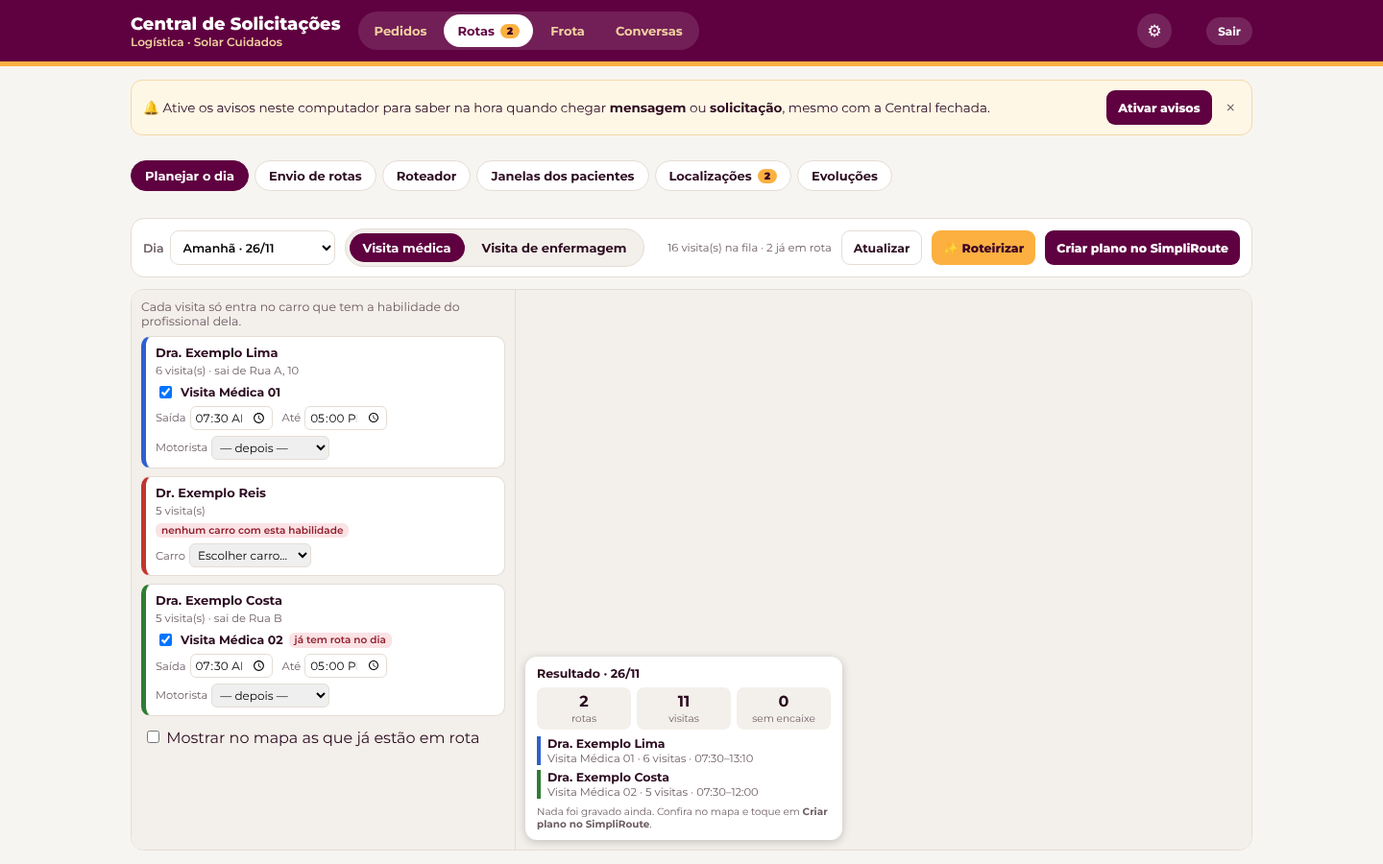
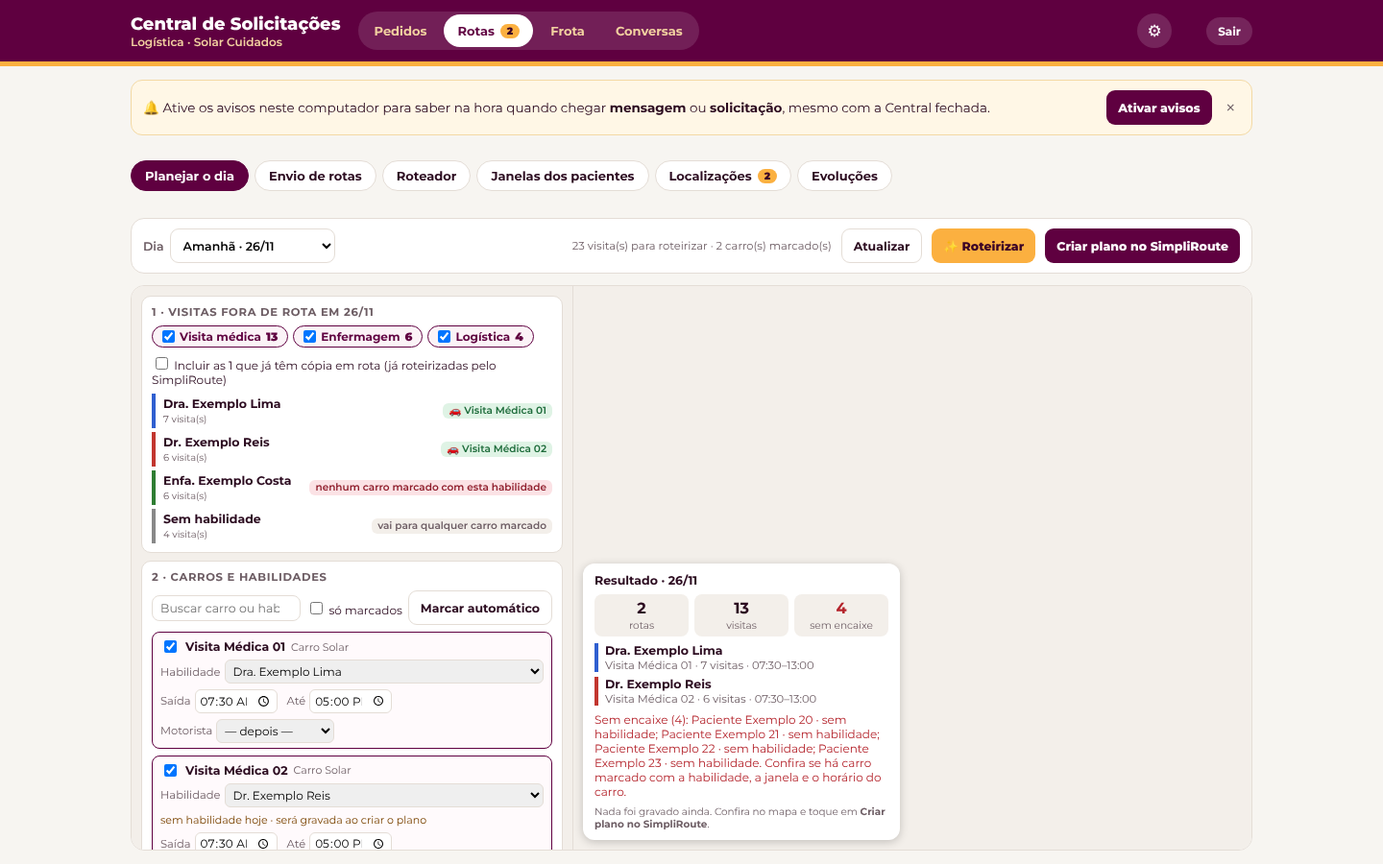
roteador

diff --git a/central.html b/central.html
@@ -209,6 +209,7 @@ tr.crit td{background:#fdf1f2}
 .ajt input[type=number]{font:inherit;font-size:13.5px;padding:5px 6px;border:1px solid var(--line);border-radius:8px}
 .larga main,.larga .topin{max-width:none}
 .plp{background:#fff;border:1px solid var(--line);border-left:5px solid var(--wine);border-radius:10px;padding:8px 10px;display:flex;flex-direction:column;gap:5px}.plh b{display:block;font-size:13px}.plh small{font-size:11.5px;color:var(--muted)}.plr{display:flex;gap:6px;align-items:center;font-size:12.5px;flex-wrap:wrap}.plr2{display:flex;gap:6px 10px;flex-wrap:wrap;align-items:center;font-size:11.5px;color:var(--muted)}.plr2 label{display:flex;gap:4px;align-items:center}.plr2 input[type=time]{font:inherit;font-size:12px;padding:2px 4px;border:1px solid var(--line);border-radius:6px;width:86px}.plm select{font:inherit;font-size:12px;padding:3px 4px;border:1px solid var(--line);border-radius:6px;max-width:210px}
+.rtwrap.pltw{grid-template-columns:460px minmax(0,1fr)}.plbox{background:#fff;border:1px solid var(--line);border-radius:10px;padding:9px 10px;display:flex;flex-direction:column;gap:7px}.plbox h4{margin:0;font-size:11.5px;letter-spacing:.06em;text-transform:uppercase;color:var(--muted)}.plchips{display:flex;flex-wrap:wrap;gap:5px}.plchip{display:inline-flex;gap:5px;align-items:center;border:1px solid var(--line);border-radius:999px;padding:3px 10px;font-size:12px;font-weight:700;cursor:pointer}.plchip.on{border-color:var(--wine);background:#fbf3f7;color:var(--wine)}.plchip input{margin:0}.plsk{display:flex;flex-direction:column;gap:4px}.plskr{display:flex;justify-content:space-between;gap:8px;align-items:center;border-left:4px solid #888;padding:3px 0 3px 8px;font-size:12px}.plskr b{display:block;font-size:12.5px}.plskr small{color:var(--muted)}.plbar{display:flex;gap:6px;align-items:center;flex-wrap:wrap}.plbar input[type=search]{flex:1;min-width:140px;font:inherit;font-size:12.5px;padding:5px 8px;border:1px solid var(--line);border-radius:8px}.plc{border:1px solid var(--line);border-radius:8px;padding:5px 8px;display:flex;flex-direction:column;gap:4px}.plc.on{border-color:var(--wine);background:#fffafc}.plc .plr small{color:var(--muted);font-size:11px}.pldif{flex:1 1 100%;color:var(--pend);font-size:11px}.rtk.ok{background:var(--ok-bg);color:var(--ok)}
 .plres{position:absolute;left:10px;bottom:10px;z-index:500;background:#fff;border-radius:12px;box-shadow:0 2px 10px rgba(0,0,0,.2);padding:10px 12px;width:330px;max-height:70%;overflow:auto;display:flex;flex-direction:column;gap:7px;font-size:12.5px}.plk{display:grid;grid-template-columns:repeat(3,1fr);gap:6px}.plk div{background:var(--off);border-radius:8px;padding:5px;text-align:center}.plk b{display:block;font-size:16px}.plk small{font-size:10.5px;color:var(--muted)}.plrl{display:flex;flex-direction:column;gap:5px}.plrl b{display:block;font-size:12.5px}.plrl small{color:var(--muted);font-size:11.5px}
 .lcw{display:grid;grid-template-columns:330px minmax(0,1fr);gap:14px;align-items:start}.lcl{display:flex;flex-direction:column;gap:8px;max-height:calc(100vh - 230px);overflow:auto}.lci{all:unset;box-sizing:border-box;cursor:pointer;background:#fff;border:1px solid var(--line);border-left:5px solid var(--sun);border-radius:10px;padding:9px 11px;display:flex;flex-direction:column;gap:2px}.lci b{font-size:13.5px}.lci small{font-size:12px;color:var(--muted)}.lci.on{border-color:var(--wine);box-shadow:inset 0 0 0 1px var(--wine)}.lci.aplicada{border-left-color:var(--ok)}.lci.recusada{border-left-color:var(--bad)}.lci:focus-visible{outline:2px solid var(--sun)}
 .lcd{background:#fff;border:1px solid var(--line);border-radius:12px;padding:14px;display:flex;flex-direction:column;gap:10px}.lcm{position:relative;height:330px;border-radius:10px;overflow:hidden;border:1px solid var(--line)}.lcmapa{position:absolute;inset:0;background:var(--off)}.lcleg{display:flex;gap:16px;flex-wrap:wrap;font-size:12.5px;color:var(--muted)}.lcleg i{display:inline-block;width:10px;height:10px;border-radius:50%;margin-right:5px;vertical-align:middle}.lcg{display:grid;grid-template-columns:1fr 1fr;gap:10px 18px;font-size:13px}.lcg span{display:block;font-size:11.5px;color:var(--muted)}
@@ -758,50 +759,59 @@ document.addEventListener('click',async e=>{const b=e.target.closest&&e.target.c
    if(AJ.d.enviada){try{E.data=AJ.data;await carregarEnv(true,true);const x=(E.sr||[]).find(z=>String(z.route_id)===String(R.id));if(x)await enviarRota(chave(x),true);toast('Rota do profissional atualizada no Minha Rota.')}catch(x){toast('A rota mudou no SimpliRoute, mas não consegui reenviar ao profissional: '+x.message)}}
    AJ.sols=[];AJ.busy='';carregar(true);rtCarregar();return ajCarregar()}catch(x){if(x.message!=='sessao')AJ.err=x.message}AJ.busy='';render()}});
 
-/* ===== Planejar o dia: visitas da fila do SimpliRoute → carros com a habilidade do profissional → roteirizar → criar o plano ===== */
-const PL={data:hojeSP(1),eq:'medica',d:null,busy:false,err:'',ver:false,car:{},res:null,map:null,el:null,lay:null,at:0,fit:true};
-async function plApi(acao,extra){const r=await fetch(SB+'/functions/v1/planejar',{method:'POST',headers:{apikey:KEY,'Content-Type':'application/json'},body:JSON.stringify({token:S.token,acao,data:PL.data,equipe:PL.eq,...(extra||{})})}).then(r=>r.json());
+/* ===== Planejar o dia: todas as visitas fora de rota → carros com habilidade → roteirizar (cada visita vai para o carro com a mesma habilidade) → criar o plano ===== */
+const PL={data:hojeSP(1),d:null,busy:false,err:'',ja:false,tipos:new Set(['med','enf','log','ter','sem']),car:{},res:null,map:null,el:null,lay:null,at:0,fit:true,q:'',soMarc:false};
+const PL_TIPO=t=>t==='med_visit'?'med':/^(enf_visit|avaliacao|admissao)/.test(t)?'enf':/(_log|pront_col)$/.test(t)?'log':/^(fono|fisio)/.test(t)?'ter':'sem';
+const nz=t=>String(t||'').normalize('NFD').replace(/[\u0300-\u036f]/g,'').toLowerCase();
+const PL_TNOME={med:'Visita médica',enf:'Enfermagem',log:'Logística',ter:'Fono / fisio',sem:'Sem tipo'};
+async function plApi(acao,extra){const r=await fetch(SB+'/functions/v1/planejar',{method:'POST',headers:{apikey:KEY,'Content-Type':'application/json'},body:JSON.stringify({token:S.token,acao,data:PL.data,...(extra||{})})}).then(r=>r.json());
  if(!r.ok&&r.erro==='sessao'){sair('Sua sessão expirou. Entre de novo.');throw new Error('sessao')}return r}
+const plVis=()=>(PL.d?PL.d.visitas:[]).filter(v=>(PL.ja||!v.ja)&&PL.tipos.has(PL_TIPO(v.tipo)));
+const plHab=id=>PL.d&&PL.d.habilidades.find(h=>h.id===+id);
+const plHabNome=id=>{const h=plHab(id);return h?h.nome:'Sem habilidade'};
+function plAuto(){const D=PL.d;if(!D)return;const quer=new Set();plVis().forEach(v=>v.skills.forEach(s=>quer.add(s)));
+ D.carros.forEach(c=>{const s=c.skills.find(x=>quer.has(x));const a=PL.car[c.id]||{inicio:c.turno[0]||'07:30',fim:c.turno[1]||'17:00',motorista:c.motorista||''};
+  PL.car[c.id]={...a,on:!!s&&!c.rotas_no_dia,skill:s?String(s):(c.skills[0]?String(c.skills[0]):'')}})}
 async function plCarregar(){PL.busy='carregar';PL.err='';PL.res=null;render();
- try{const r=await plApi('carregar');if(!r.ok)throw new Error(r.erro||'Não consegui ler o SimpliRoute.');PL.d=r;PL.at=Date.now();PL.fit=true;
-  const ant=PL.car;PL.car={};r.carros.forEach(c=>{const tem=c.skills.some(s=>r.profs.some(p=>p.id===s)&&r.visitas.some(v=>!v.ja&&v.skills.includes(s)));const a=ant[c.id];PL.car[c.id]=a||{on:tem&&!c.rotas_no_dia,inicio:c.turno[0]||'07:30',fim:c.turno[1]||'17:00',motorista:c.motorista||''}})}
+ try{const r=await plApi('carregar');if(!r.ok)throw new Error(r.erro||'Não consegui ler o SimpliRoute.');PL.d=r;PL.at=Date.now();PL.fit=true;PL.car={};plAuto()}
  catch(e){if(e.message!=='sessao')PL.err=e.message}PL.busy=false;render()}
-const plNome=id=>{const p=PL.d&&PL.d.profs.find(x=>x.id===id);return p?p.nome:'Sem profissional'};
-const plCarroDe=sid=>PL.d?PL.d.carros.find(c=>c.skills.includes(sid)):null;
-const plVisitas=()=>(PL.d?PL.d.visitas:[]).filter(v=>PL.ver||!v.ja);
 const PL_CORES=['#2f5fd0','#c2362f','#2e7d32','#d4700a','#7b3fa0','#13838a','#b8326f','#5b6b00','#8a5a00','#1f4e79','#a23e00','#4a2a8a','#00796b','#6d4c41'];
-const plCor=sid=>{const i=PL.d?PL.d.profs.findIndex(p=>p.id===sid):0;return PL_CORES[(i<0?0:i)%PL_CORES.length]};
+function plCor(sid){if(!sid)return '#888';const L=[...new Set((PL.d?PL.d.visitas:[]).flatMap(v=>v.skills))];const i=L.indexOf(+sid);return PL_CORES[(i<0?0:i)%PL_CORES.length]}
 function renderPla(){if(!PL.d&&!PL.busy&&!PL.err&&!PL._q){PL._q=1;setTimeout(()=>{PL._q=0;plCarregar()},0)}
- const d=PL.d,vs=plVisitas(),novas=d?d.visitas.filter(v=>!v.ja):[];
- let h=`<div class="bar rtbar"><label class="ck">Dia <select id="pldia">${[1,2,3,4,5,6,7].map(k=>{const s=hojeSP(k);return `<option value="${s}"${PL.data===s?' selected':''}>${k===1?'Amanhã':dExt(s)} · ${dm(s)}</option>`}).join('')}</select></label>
-  <div class="rteq" role="tablist" aria-label="Equipe">${[['medica','Visita médica'],['enfermagem','Visita de enfermagem']].map(([k,t])=>`<button type="button" role="tab" data-pleq="${k}" aria-selected="${PL.eq===k}" class="${PL.eq===k?'on':''}">${t}</button>`).join('')}</div>
-  <span class="sp"></span><span class="upd">${PL.busy==='carregar'?'Lendo o SimpliRoute…':d?`${novas.length} visita(s) na fila · ${d.ja_roteirizadas} já em rota`:''}</span>
+ const d=PL.d,vs=plVis(),marc=d?d.carros.filter(c=>(PL.car[c.id]||{}).on):[];
+ let h=`<div class="bar rtbar"><label class="ck">Dia <select id="pldia">${[0,1,2,3,4,5,6,7].map(k=>{const s=hojeSP(k);return `<option value="${s}"${PL.data===s?' selected':''}>${k===0?'Hoje':k===1?'Amanhã':dExt(s)} · ${dm(s)}</option>`}).join('')}</select></label>
+  <span class="sp"></span><span class="upd">${PL.busy==='carregar'?'Lendo o SimpliRoute…':d?`${vs.length} visita(s) para roteirizar · ${marc.length} carro(s) marcado(s)`:''}</span>
   <button class="btn ghost sm" type="button" data-pl="atualizar"${PL.busy?' disabled':''}>Atualizar</button>
-  <button class="btn sun sm" type="button" data-pl="roteirizar"${PL.busy||!d||!novas.length?' disabled':''}>${PL.busy==='roteirizar'?'Roteirizando…':'✨ Roteirizar'}</button>
+  <button class="btn sun sm" type="button" data-pl="roteirizar"${PL.busy||!d||!vs.length||!marc.length?' disabled':''}>${PL.busy==='roteirizar'?'Roteirizando…':'✨ Roteirizar'}</button>
   <button class="btn wine sm" type="button" data-pl="criar"${PL.busy||!PL.res||!PL.res.rotas.length?' disabled':''}>${PL.busy==='criar'?'Criando…':'Criar plano no SimpliRoute'}</button></div>`;
  if(PL.err)h+=`<p class="err" role="alert">${esc(PL.err)}</p>`;
- h+=`<div class="rtwrap"><section class="rtrs pls" aria-label="Profissionais, carros e visitas">`;
- if(!d)h+=`<div class="empty">${PL.busy?'Lendo as visitas do dia no SimpliRoute…':'—'}</div>`;
+ h+=`<div class="rtwrap pltw"><section class="rtrs pls" aria-label="Visitas e carros">`;
+ if(!d)h+=`<div class="empty">${PL.busy?'Lendo as visitas fora de rota no SimpliRoute…':'—'}</div>`;
  else{
-  const porProf=new Map();novas.forEach(v=>{const k=v.skills[0]||0;porProf.set(k,(porProf.get(k)||0)+1)});
-  h+=`<p class="rtres" style="margin:0">Cada visita só entra no carro que tem a habilidade do profissional dela.</p>`;
-  if(!novas.length)h+=`<div class="empty">Nenhuma visita de ${PL.eq==='medica'?'visita médica':'enfermagem'} na fila do SimpliRoute para ${dm(PL.data)}${d.ja_roteirizadas?` (${d.ja_roteirizadas} já estão em rota)`:''}.</div>`;
-  d.profs.slice().sort((a,b)=>(porProf.get(b.id)||0)-(porProf.get(a.id)||0)).forEach(p=>{const n=porProf.get(p.id)||0;const c=plCarroDe(p.id),cf=c?PL.car[c.id]:null;
-   h+=`<div class="plp" style="border-left-color:${plCor(p.id)}"><div class="plh"><b>${esc(p.nome)}</b><small>${n} visita(s)${p.base&&p.base.endereco?' · sai de '+esc(String(p.base.endereco).split(' - ')[0]):''}</small></div>`;
-   if(c){h+=`<label class="plr"><input type="checkbox" data-plon="${c.id}"${cf.on?' checked':''}> <b>${esc(c.nome)}</b>${c.rotas_no_dia?' <span class="rtk bad">já tem rota no dia</span>':''}</label>
-     <div class="plr2"><label>Saída <input type="time" data-plini="${c.id}" value="${esc(cf.inicio)}"></label><label>Até <input type="time" data-plfim="${c.id}" value="${esc(cf.fim)}"></label>
-     <label class="plm">Motorista <select data-plmot="${c.id}"><option value="">— depois —</option>${d.motoristas.map(m=>`<option value="${m.id}"${String(cf.motorista)===String(m.id)?' selected':''}>${esc(m.nome)}</option>`).join('')}</select></label></div>`}
-   else{const livres=d.carros.filter(x=>!x.skills.some(s=>porProf.get(s)));
-    h+=`<div class="plr2"><span class="rtk bad">nenhum carro com esta habilidade</span><label class="plm">Carro <select data-plhab="${p.id}"><option value="">Escolher carro…</option>${livres.map(x=>`<option value="${x.id}">${esc(x.nome)}${x.skill_nomes.length?' (hoje: '+esc(x.skill_nomes.join(', '))+')':''}</option>`).join('')}</select></label></div>`}
-   h+='</div>'});
-  if(porProf.get(0))h+=`<div class="plp" style="border-left-color:#999"><div class="plh"><b>Sem profissional</b><small>${porProf.get(0)} visita(s) sem habilidade: não entram em nenhum carro</small></div></div>`;
-  h+=`<label class="ck" style="margin:4px 2px"><input type="checkbox" id="plver"${PL.ver?' checked':''}> Mostrar no mapa as que já estão em rota</label>`}
+  /* 1. visitas fora de rota */
+  const fila=d.visitas.filter(v=>PL.ja||!v.ja),nJa=d.visitas.filter(v=>v.ja).length;const cnt={};fila.forEach(v=>{const t=PL_TIPO(v.tipo);cnt[t]=(cnt[t]||0)+1});
+  h+=`<div class="plbox"><h4>1 · Visitas fora de rota em ${dm(PL.data)}</h4><div class="plchips">${Object.keys(PL_TNOME).filter(t=>cnt[t]).map(t=>`<label class="plchip${PL.tipos.has(t)?' on':''}"><input type="checkbox" data-pltipo="${t}"${PL.tipos.has(t)?' checked':''}>${PL_TNOME[t]} <b>${cnt[t]}</b></label>`).join('')||'<span class="meta">Nenhuma visita fora de rota.</span>'}</div>
+   ${nJa?`<label class="ck" style="font-size:12px"><input type="checkbox" id="plja"${PL.ja?' checked':''}> Incluir as ${nJa} que já têm cópia em rota (já roteirizadas pelo SimpliRoute)</label>`:''}`;
+  const porSk=new Map();vs.forEach(v=>{const k=v.skills.length?v.skills.join(','):'0';porSk.set(k,(porSk.get(k)||0)+1)});
+  const carroCom=sid=>d.carros.filter(c=>(PL.car[c.id]||{}).on&&String((PL.car[c.id]||{}).skill)===String(sid));
+  h+=`<div class="plsk">${[...porSk.entries()].sort((a,b)=>b[1]-a[1]).map(([k,n])=>{const sid=k==='0'?'':k.split(',')[0];const cs=sid?carroCom(sid):[];
+   return `<div class="plskr" style="border-left-color:${plCor(sid)}"><span><b>${sid?esc(k.split(',').map(plHabNome).join(' + ')):'Sem habilidade'}</b><small>${n} visita(s)</small></span>${sid?(cs.length?`<span class="rtk ok">🚗 ${esc(cs.map(c=>c.nome).join(', '))}</span>`:`<span class="rtk bad">nenhum carro marcado com esta habilidade</span>`):'<span class="rtk">vai para qualquer carro marcado</span>'}</div>`}).join('')}</div></div>`;
+  /* 2. carros */
+  const q=nz(PL.q);const lista=d.carros.filter(c=>(!PL.soMarc||(PL.car[c.id]||{}).on)&&(!q||nz(c.nome+' '+c.grupo+' '+c.skills.map(plHabNome).join(' ')).includes(q)));
+  h+=`<div class="plbox"><h4>2 · Carros e habilidades</h4><div class="plbar"><input id="plq" type="search" placeholder="Buscar carro ou habilidade" value="${esc(PL.q)}"><label class="ck" style="font-size:12px"><input type="checkbox" id="plso"${PL.soMarc?' checked':''}> só marcados</label><button class="btn ghost sm" type="button" data-pl="auto" title="Marca os carros que já têm a habilidade das visitas">Marcar automático</button></div>
+   <datalist id="plhabs">${d.habilidades.map(x=>`<option value="${esc(x.nome)}">`).join('')}</datalist>
+   ${lista.map(c=>{const cf=PL.car[c.id]||{};const sk=cf.skill?plHab(cf.skill):null;const mud=String(cf.skill||'')!==String(c.skills[0]||'');
+    return `<div class="plc${cf.on?' on':''}"><label class="plr"><input type="checkbox" data-plon="${c.id}"${cf.on?' checked':''}> <b>${esc(c.nome)}</b><small>${esc(c.grupo)}</small>${c.rotas_no_dia?' <span class="rtk bad">já tem rota no dia</span>':''}</label>
+     ${cf.on?`<div class="plr2"><label class="plm" style="flex:1 1 100%">Habilidade <select data-plsk="${c.id}" style="max-width:none;flex:1"><option value="">— sem habilidade —</option>${d.habilidades.map(x=>`<option value="${x.id}"${String(cf.skill)===String(x.id)?' selected':''}>${esc(x.nome)}</option>`).join('')}</select></label>
+      ${mud?`<small class="pldif">${c.skills.length?'hoje no SimpliRoute: '+esc(c.skills.map(plHabNome).join(', ')):'sem habilidade hoje'} · será gravada ao criar o plano${sk&&sk.base?' · sai da casa do profissional':''}</small>`:''}
+      <label>Saída <input type="time" data-plini="${c.id}" value="${esc(cf.inicio)}"></label><label>Até <input type="time" data-plfim="${c.id}" value="${esc(cf.fim)}"></label>
+      <label class="plm">Motorista <select data-plmot="${c.id}"><option value="">— depois —</option>${d.motoristas.map(m=>`<option value="${m.id}"${String(cf.motorista)===String(m.id)?' selected':''}>${esc(m.nome)}</option>`).join('')}</select></label></div>`:''}</div>`}).join('')}</div>`}
  h+='</section>';
  h+=`<section class="rtm" aria-label="Mapa do plano"><div id="plmapa-slot" class="rtmapa"></div>`;
  if(PL.res){const R=PL.res,nv=R.rotas.reduce((a,r)=>a+r.visitas.length,0),fora=R.sem_encaixe||[];
   h+=`<div class="plres"><b>Resultado · ${dm(PL.data)}</b><div class="plk"><div><b>${R.rotas.length}</b><small>rotas</small></div><div><b>${nv}</b><small>visitas</small></div><div><b class="${fora.length?'ajbad':''}">${fora.length}</b><small>sem encaixe</small></div></div>
-   <div class="plrl">${R.rotas.map(r=>{const c=d.carros.find(x=>x.id===r.carro)||{nome:r.carro,skills:[]};const sid=c.skills[0];return `<div style="border-left:4px solid ${plCor(sid)};padding-left:7px"><b>${esc(plNome(sid))}</b><small>${esc(c.nome)} · ${r.visitas.length} visitas · ${esc(r.saida)}–${esc(r.volta)}</small></div>`}).join('')}</div>
-   ${fora.length?`<p class="ajbad" style="margin:0;font-size:12px">Sem encaixe: ${fora.map(id=>{const v=d.visitas.find(x=>x.id===id);return v?esc(v.titulo)+(v.de||v.ate?' ('+esc(v.de||'…')+'–'+esc(v.ate||'…')+')':''):id}).join(', ')}. Confira a janela, o horário do carro ou se o profissional tem carro.</p>`:''}
+   <div class="plrl">${R.rotas.map(r=>{const c=d.carros.find(x=>x.id===r.carro)||{nome:r.carro};const sid=(r.skills||[])[0];return `<div style="border-left:4px solid ${plCor(sid)};padding-left:7px"><b>${esc(sid?plHabNome(sid):'Sem habilidade')}</b><small>${esc(c.nome)} · ${r.visitas.length} visitas · ${esc(r.saida)}–${esc(r.volta)}</small></div>`}).join('')}</div>
+   ${fora.length?`<p class="ajbad" style="margin:0;font-size:12px">Sem encaixe (${fora.length}): ${fora.slice(0,12).map(id=>{const v=d.visitas.find(x=>x.id===id);return v?esc(v.titulo)+' · '+esc(v.skills.length?plHabNome(v.skills[0]):'sem habilidade'):id}).join('; ')}${fora.length>12?'…':''}. Confira se há carro marcado com a habilidade, a janela e o horário do carro.</p>`:''}
    <small style="color:var(--muted)">Nada foi gravado ainda. Confira no mapa e toque em <b>Criar plano no SimpliRoute</b>.</small></div>`}
  h+='</section></div>';return h}
 async function plDesenha(){const slot=document.getElementById('plmapa-slot');if(slot){if(!PL.el){PL.el=document.createElement('div');PL.el.className='rtmapa'}slot.replaceWith(PL.el)}else if(!PL.el||!document.body.contains(PL.el))return;
@@ -809,37 +819,39 @@ async function plDesenha(){const slot=document.getElementById('plmapa-slot');if(
  if(!PL.map){PL.map=L.map(PL.el,{scrollWheelZoom:true});L.tileLayer('https://{s}.tile.openstreetmap.org/{z}/{x}/{y}.png',{maxZoom:18,attribution:'© OpenStreetMap'}).addTo(PL.map);PL.map.setView([-22.93,-43.3],10)}
  PL.map.invalidateSize(false);if(PL.lay)PL.lay.remove();PL.lay=L.layerGroup().addTo(PL.map);const d=PL.d;if(!d)return;const pts=[];
  const pin=(cor,txt,sz,op)=>L.divIcon({className:'',html:`<div class="rtpin" style="background:${cor};width:${sz}px;height:${sz}px;opacity:${op}">${txt}</div>`,iconSize:[sz,sz],iconAnchor:[sz/2,sz/2]});
- try{if(PL.res){PL.res.rotas.forEach(r=>{const c=d.carros.find(x=>x.id===r.carro);if(!c)return;const cor=plCor(c.skills[0]);const ll=[[c.inicio.lat,c.inicio.lng]];
-   L.marker([c.inicio.lat,c.inicio.lng],{icon:pin(cor,'⌂',22,1)}).bindTooltip(`<b>${esc(plNome(c.skills[0]))}</b><br>${esc(c.nome)} · saída ${esc(r.saida)}`).addTo(PL.lay);
+ try{if(PL.res){PL.res.rotas.forEach(r=>{const c=d.carros.find(x=>x.id===r.carro)||{nome:r.carro};const sid=(r.skills||[])[0];const cor=plCor(sid);const ini=r.ini||c.inicio,fim=r.fim||c.fim;const ll=[[ini.lat,ini.lng]];
+   L.marker([ini.lat,ini.lng],{icon:pin(cor,'⌂',22,1)}).bindTooltip(`<b>${esc(sid?plHabNome(sid):'Sem habilidade')}</b><br>${esc(c.nome)} · saída ${esc(r.saida)}`).addTo(PL.lay);
    r.visitas.forEach((x,i)=>{const v=d.visitas.find(y=>y.id===x.id);if(!v||!isFinite(v.lat))return;ll.push([v.lat,v.lng]);pts.push([v.lat,v.lng]);
-    L.marker([v.lat,v.lng],{icon:pin(cor,i+1,22,1)}).bindTooltip(`<b>${esc(plNome(c.skills[0]))}</b><br>${i+1}ª ${esc(v.titulo)}${v.bairro?' · '+esc(v.bairro):''}<br>chega ${esc(x.chegada)}${v.de||v.ate?' · janela '+esc(v.de||'…')+'–'+esc(v.ate||'…'):''}`).addTo(PL.lay)});
-   ll.push([c.fim.lat,c.fim.lng]);L.polyline(ll,{noClip:true,color:cor,weight:3,opacity:.75}).addTo(PL.lay)});
+    L.marker([v.lat,v.lng],{icon:pin(cor,i+1,22,1)}).bindTooltip(`<b>${esc(c.nome)}</b><br>${i+1}ª ${esc(v.titulo)}${v.bairro?' · '+esc(v.bairro):''}<br>chega ${esc(x.chegada)}${v.de||v.ate?' · janela '+esc(v.de||'…')+'–'+esc(v.ate||'…'):''}`).addTo(PL.lay)});
+   ll.push([fim.lat,fim.lng]);L.polyline(ll,{noClip:true,color:cor,weight:3,opacity:.75}).addTo(PL.lay)});
    (PL.res.sem_encaixe||[]).forEach(id=>{const v=d.visitas.find(y=>y.id===id);if(v&&isFinite(v.lat))L.marker([v.lat,v.lng],{icon:pin('#111','!',22,1)}).bindTooltip(`Sem encaixe: ${esc(v.titulo)}`).addTo(PL.lay)})}
-  else plVisitas().forEach(v=>{if(!isFinite(v.lat))return;const sid=v.skills[0];pts.push([v.lat,v.lng]);
-   L.marker([v.lat,v.lng],{icon:pin(sid?plCor(sid):'#999','',14,v.ja?.35:1)}).bindTooltip(`<b>${esc(plNome(sid))}</b><br>${esc(v.titulo)}${v.bairro?' · '+esc(v.bairro):''}${v.de||v.ate?'<br>janela '+esc(v.de||'…')+'–'+esc(v.ate||'…'):''}${v.ja?'<br>já está em rota':''}`).addTo(PL.lay)})}
+  else plVis().forEach(v=>{if(!isFinite(v.lat)||!v.lat)return;const sid=v.skills[0];pts.push([v.lat,v.lng]);
+   L.marker([v.lat,v.lng],{icon:pin(plCor(sid),'',14,v.ja?.4:1)}).bindTooltip(`<b>${esc(sid?plHabNome(sid):'Sem habilidade')}</b> · ${esc(PL_TNOME[PL_TIPO(v.tipo)])}<br>${esc(v.titulo)}${v.bairro?' · '+esc(v.bairro):''}${v.de||v.ate?'<br>janela '+esc(v.de||'…')+'–'+esc(v.ate||'…'):''}`).addTo(PL.lay)})}
  catch(e){console.warn('mapa do plano',e)}
  if(PL.fit&&pts.length){PL.fit=false;const f=()=>{PL.map.invalidateSize(false);PL.map.fitBounds(pts,{padding:[40,40],maxZoom:14})};f();setTimeout(f,60)}}
-document.addEventListener('click',async e=>{const b=e.target.closest&&e.target.closest('[data-pl],[data-pleq]');if(!b)return;const d=b.dataset;
- if(d.pleq){if(PL.eq===d.pleq)return;PL.eq=d.pleq;PL.d=null;PL.res=null;render();plCarregar();return}
- if(d.pl==='atualizar'){plCarregar();return}
- if(d.pl==='roteirizar'){const D=PL.d;const carros=D.carros.filter(c=>PL.car[c.id]&&PL.car[c.id].on).map(c=>({id:c.id,inicio:PL.car[c.id].inicio,fim:PL.car[c.id].fim}));
+document.addEventListener('click',async e=>{const b=e.target.closest&&e.target.closest('[data-pl]');if(!b)return;const a=b.dataset.pl;
+ if(a==='atualizar'){plCarregar();return}
+ if(a==='auto'){plAuto();PL.res=null;render();return}
+ if(a==='roteirizar'){const D=PL.d;const carros=D.carros.filter(c=>(PL.car[c.id]||{}).on).map(c=>({id:c.id,skills:PL.car[c.id].skill?[+PL.car[c.id].skill]:[],inicio:PL.car[c.id].inicio,fim:PL.car[c.id].fim}));
   if(!carros.length){toast('Marque ao menos um carro.');return}
-  PL.busy='roteirizar';PL.err='';render();try{const r=await plApi('otimizar',{visitas:D.visitas.filter(v=>!v.ja).map(v=>v.id),carros});if(!r.ok)throw new Error(r.erro);PL.res=r;PL.fit=true}catch(x){if(x.message!=='sessao')PL.err=x.message}PL.busy=false;render();return}
- if(d.pl==='criar'){const R=PL.res;if(!R)return;const nv=R.rotas.reduce((a,r)=>a+r.visitas.length,0);
-  if(!confirm(`Criar no SimpliRoute o plano de ${dm(PL.data)} com ${R.rotas.length} rota(s) e ${nv} visita(s)?${(R.sem_encaixe||[]).length?`\n\n${R.sem_encaixe.length} visita(s) ficam de fora (sem encaixe).`:''}`))return;
+  PL.busy='roteirizar';PL.err='';render();try{const r=await plApi('otimizar',{visitas:plVis().map(v=>v.id),carros});if(!r.ok)throw new Error(r.erro);PL.res=r;PL.fit=true}catch(x){if(x.message!=='sessao')PL.err=x.message}PL.busy=false;render();return}
+ if(a==='criar'){const R=PL.res;if(!R)return;const nv=R.rotas.reduce((s,r)=>s+r.visitas.length,0);
+  const muda=R.rotas.filter(r=>{const c=PL.d.carros.find(x=>x.id===r.carro);return c&&String((r.skills||[])[0]||'')!==String(c.skills[0]||'')}).length;
+  if(!confirm(`Criar no SimpliRoute o plano de ${dm(PL.data)} com ${R.rotas.length} rota(s) e ${nv} visita(s)?${muda?`\n\n${muda} carro(s) vão ter a habilidade trocada no SimpliRoute.`:''}${(R.sem_encaixe||[]).length?`\n\n${R.sem_encaixe.length} visita(s) ficam de fora (sem encaixe).`:''}`))return;
   PL.busy='criar';PL.err='';render();
-  try{const r=await plApi('criar',{rotas:R.rotas.map(x=>({carro:x.carro,saida:x.saida,volta:x.volta,motorista:(PL.car[x.carro]||{}).motorista||'',visitas:x.visitas}))});if(!r.ok)throw new Error(r.erro);
-   toast(`Plano criado no SimpliRoute: ${r.rotas} rota(s), ${r.visitas} visita(s). Veja e ajuste no Roteador.`);PL.res=null;PL.busy=false;RT.data=PL.data;RT.plano=null;plCarregar();return}catch(x){if(x.message!=='sessao')PL.err=x.message}PL.busy=false;render();return}});
-document.addEventListener('change',async e=>{const t=e.target;if(!t||!t.dataset)return;const d=t.dataset;
+  try{const r=await plApi('criar',{rotas:R.rotas.map(x=>({carro:x.carro,skills:x.skills,saida:x.saida,volta:x.volta,motorista:(PL.car[x.carro]||{}).motorista||'',visitas:x.visitas}))});if(!r.ok)throw new Error(r.erro);
+   toast(`Plano criado no SimpliRoute: ${r.rotas} rota(s), ${r.visitas} visita(s)${r.habilidades_gravadas?` · ${r.habilidades_gravadas} carro(s) com habilidade nova`:''}. Ajuste no Roteador se precisar.`);PL.res=null;PL.busy=false;RT.data=PL.data;RT.plano=null;plCarregar();return}catch(x){if(x.message!=='sessao')PL.err=x.message}PL.busy=false;render();return}});
+document.addEventListener('change',e=>{const t=e.target;if(!t||!t.dataset)return;const d=t.dataset;
  if(t.id==='pldia'){PL.data=t.value;PL.d=null;PL.res=null;PL.car={};render();plCarregar();return}
- if(t.id==='plver'){PL.ver=t.checked;PL.fit=true;render();return}
- if(d.plon){PL.car[d.plon].on=t.checked;PL.res=null;render();return}
+ if(t.id==='plja'){PL.ja=t.checked;PL.res=null;PL.fit=true;render();return}
+ if(t.id==='plso'){PL.soMarc=t.checked;render();return}
+ if(d.pltipo){t.checked?PL.tipos.add(d.pltipo):PL.tipos.delete(d.pltipo);PL.res=null;PL.fit=true;render();return}
+ if(d.plon){const c=PL.d.carros.find(x=>String(x.id)===d.plon);PL.car[d.plon]=PL.car[d.plon]||{inicio:c.turno[0]||'07:30',fim:c.turno[1]||'17:00',motorista:'',skill:c.skills[0]?String(c.skills[0]):''};PL.car[d.plon].on=t.checked;PL.res=null;render();return}
+ if(d.plsk){PL.car[d.plsk].skill=t.value;PL.res=null;render();return}
  if(d.plini){PL.car[d.plini].inicio=t.value;PL.res=null;return}
  if(d.plfim){PL.car[d.plfim].fim=t.value;PL.res=null;return}
- if(d.plmot){PL.car[d.plmot].motorista=t.value;return}
- if(d.plhab&&t.value){const c=PL.d.carros.find(x=>String(x.id)===t.value);const p=PL.d.profs.find(x=>String(x.id)===d.plhab);
-  if(!confirm(`Gravar no SimpliRoute a habilidade "${p?p.nome:''}" no carro ${c?c.nome:''}?${c&&c.skill_nomes.length?`\n\nO carro deixa de ser de ${c.skill_nomes.join(', ')}.`:''}${p&&p.base?'\nA saída e a volta passam a ser na casa do profissional.':'\nA casa do profissional ainda não está cadastrada: a saída continua a do carro.'}`)){t.value='';return}
-  PL.busy='hab';render();try{const r=await plApi('habilidade',{veiculo:+t.value,skill:+d.plhab});if(!r.ok)throw new Error(r.erro);toast('Habilidade gravada no carro.');PL.busy=false;plCarregar()}catch(x){PL.busy=false;if(x.message!=='sessao'){PL.err=x.message;render()}}}});
+ if(d.plmot){PL.car[d.plmot].motorista=t.value;return}});
+document.addEventListener('input',e=>{if(e.target&&e.target.id==='plq'){PL.q=e.target.value;const p=e.target.selectionStart;render();const n=$('#plq');if(n){n.focus();n.setSelectionRange(p,p)}}});
 
 /* ===== Localizações: casa do paciente enviada pelo motorista; a Logística confere e aplica no SimpliRoute ===== */
 const LC={st:'pendente',itens:null,pend:0,sel:null,busy:false,err:'',proximas:true,map:null,el:null,lay:null,at:0};
